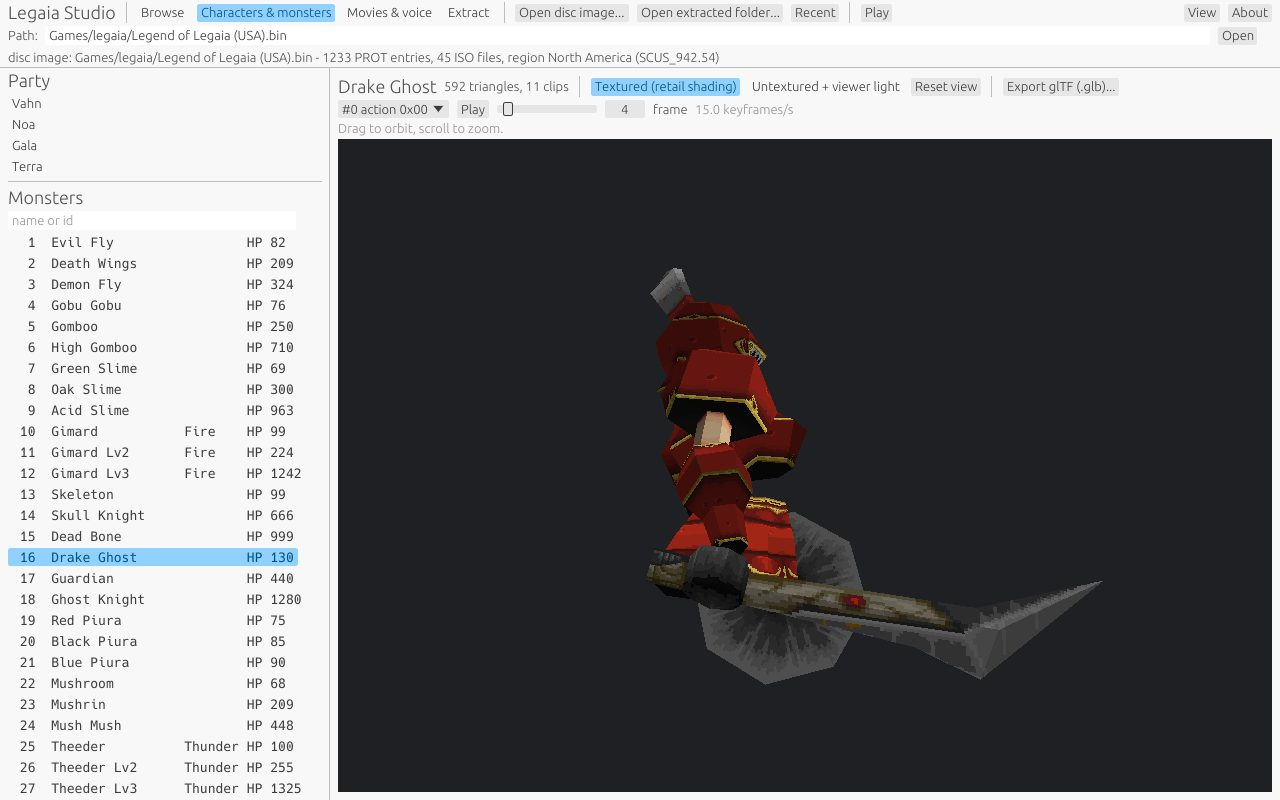
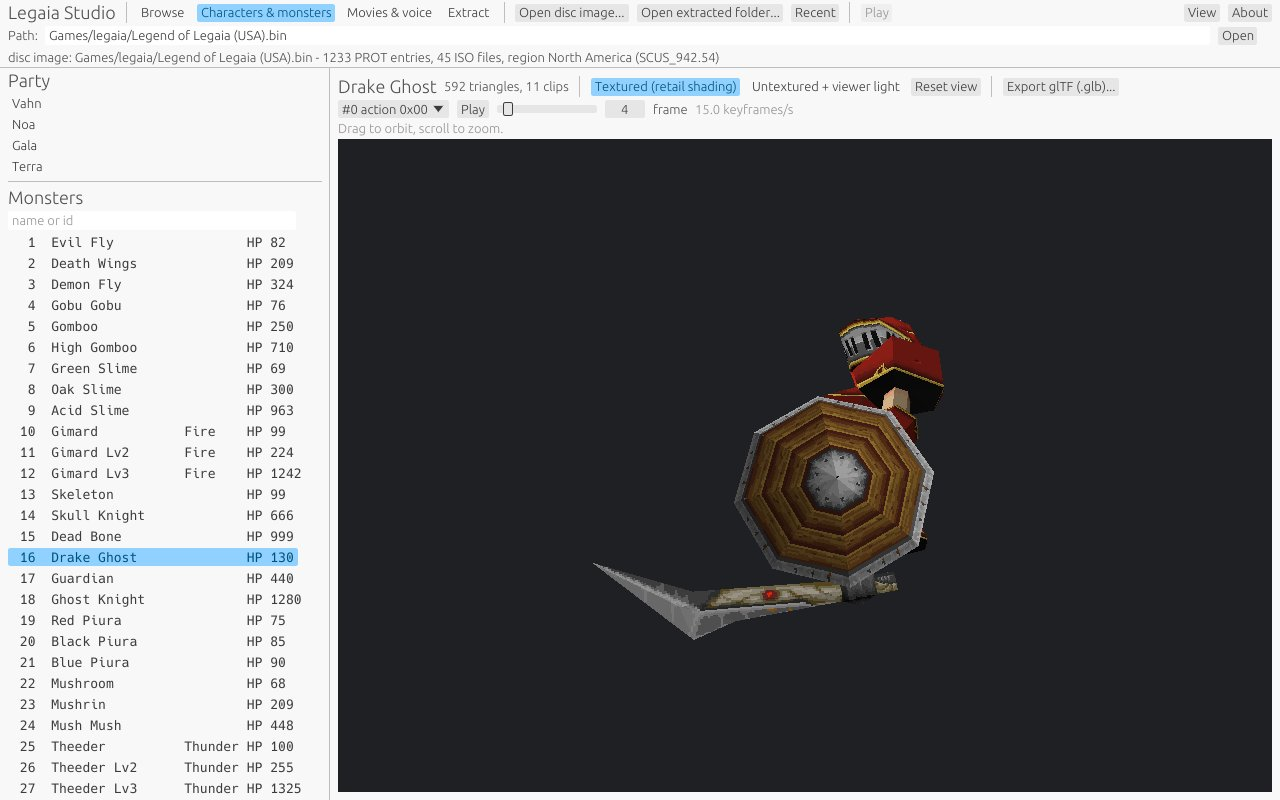
Site + README: recapture the Studio 3D screenshots on the model's front
The 3D preview now opens facing the model, so the README shot, the home
page's desktop-apps tile and the desktop-apps guide's model, characters
and light-theme shots are recaptured at the same sizes and selections
(LEGAIA_STUDIO_SCREENSHOT on a private Xvfb). Vahn's Power Slash is shown
at frame 0: later frames lunge toward the camera and leave the frame.

Changed region(s): [[0.4688, 0.3438, 0.875, 0.875]]

diff --git a/site/_content/guides/desktop-apps.html b/site/_content/guides/desktop-apps.html
@@ -106,7 +106,7 @@
 
   <h3 id="studio-actors">Characters &amp; monsters</h3>
   <figure class="screenshot">
-    <img src="../img/desktop/studio-actors.jpg" width="1280" height="800" alt="The Characters &amp; monsters view: the party and monster lists on the left, Vahn in battle form mid-way through his Power Slash art on the right, with the equipment pickers, the clip picker and the frame slider" loading="lazy">
+    <img src="../img/desktop/studio-actors.jpg" width="1280" height="800" alt="The Characters &amp; monsters view: the party and monster lists on the left, Vahn in battle form at the start of his Power Slash art on the right, with the equipment pickers, the clip picker and the frame slider" loading="lazy">
     <figcaption>The party in battle form with any equipment, and every monster by name with its element; every battle animation plays or steps frame by frame.</figcaption>
   </figure>
   <p>Pick a party member to see the battle model built from the equipment you choose, or a monster from the list (<code>Gimard Lv2</code>, with its element badge). Every battle animation plays at game speed or steps a frame at a time; for Vahn, Noa and Gala the list includes every Tactical Art by name. <em>Export glTF</em> writes the animated model.</p>
